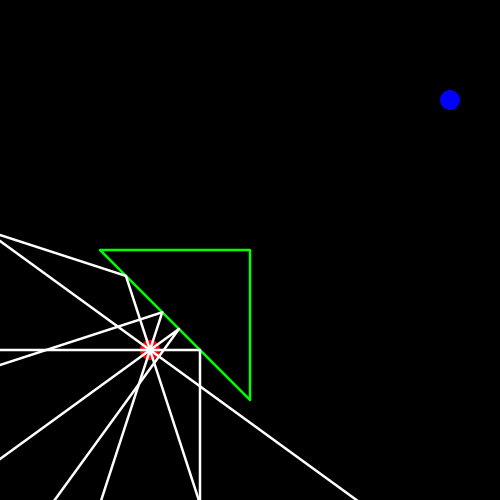
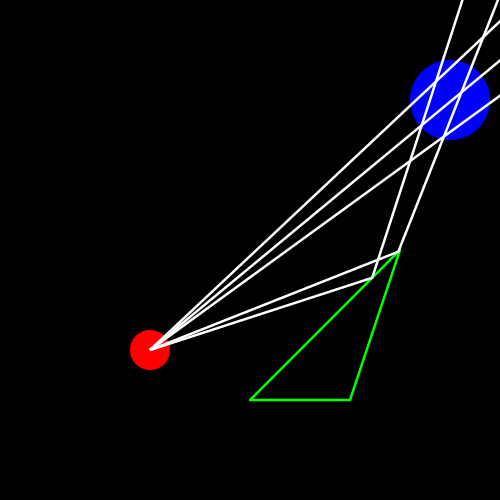
propagated paths working both technically and visually

diff --git a/main.py b/main.py
@@ -5,7 +5,7 @@ from multipatprop import System, Transmitter, Receiver, Interferer, Point2D, Ray
 
 transmitter = Transmitter(Point2D(3, 3))
 receiver = Receiver(Point2D(9, 8))
-interferers = [Interferer(Polygon(Point2D(5, 5), Point2D(2, 5), Point2D(5, 2)))]
+interferers = [Interferer(Polygon(Point2D(7, 2), Point2D(8, 5), Point2D(5, 2)))]
 
 system = System(transmitter, receiver, interferers)
 
@@ -20,11 +20,11 @@ with cairo.ImageSurface(cairo.FORMAT_RGB24, 500, 500) as surface:
     context.scale(camera_zoom, camera_zoom)
     context.translate(-camera_position.x, -camera_position.y)
 
-    context.arc(system.transmitter.position.x, system.transmitter.position.y, 0.2, 0, tau)
+    context.arc(system.transmitter.position.x, system.transmitter.position.y, 0.4, 0, tau)
     context.set_source_rgb(1, 0, 0)
     context.fill()
 
-    context.arc(system.receiver.position.x, system.receiver.position.y, 0.2, 0, tau)
+    context.arc(system.receiver.position.x, system.receiver.position.y, 0.8, 0, tau)
     context.set_source_rgb(0, 0, 1)
     context.fill()
 
@@ -37,7 +37,7 @@ with cairo.ImageSurface(cairo.FORMAT_RGB24, 500, 500) as surface:
         context.set_line_join(cairo.LINE_JOIN_ROUND)
         context.stroke()
 
-    paths = system.get_paths(starting_number=10, max_reflections=10)
+    paths = system.get_paths_propagated(starting_number=100, receiver_diameter=1.6, max_reflections=10)
     for path in paths:
         for point in path[0]:
             context.line_to(point.x, point.y)

diff --git a/multipatprop.py b/multipatprop.py
@@ -1,6 +1,6 @@
 from __future__ import annotations
 from math import pi, tau, atan2
-from sympy import Point2D, Ray2D, Polygon
+from sympy import Point2D, Ray2D, Polygon, Circle
 
 
 class System:
@@ -12,6 +12,20 @@ class System:
         self.transmitter = transmitter
         self.receiver = receiver
         self.interferers = interferers
+
+    def get_paths_propagated(self, starting_number: int, receiver_diameter: float, max_reflections: int) -> list[tuple[list[Point2D], float | None]]:
+        paths = []
+        for n in range(starting_number):
+            path = self.get_path(tau * (n / starting_number), max_reflections)
+            if path[1] is None:
+                continue
+
+            propagated_ray = Ray2D(path[0][-1], angle=path[1])
+            receiver_circle = Circle(self.receiver.position, receiver_diameter / 2)
+            if len(propagated_ray.intersection(receiver_circle)) > 0:
+                paths.append(path)
+        return paths
+
 
     def get_paths(self, starting_number: int, max_reflections: int) -> list[tuple[list[Point2D], float | None]]:
         paths = [self.get_path(tau * (n / starting_number), max_reflections) for n in range(starting_number)]
